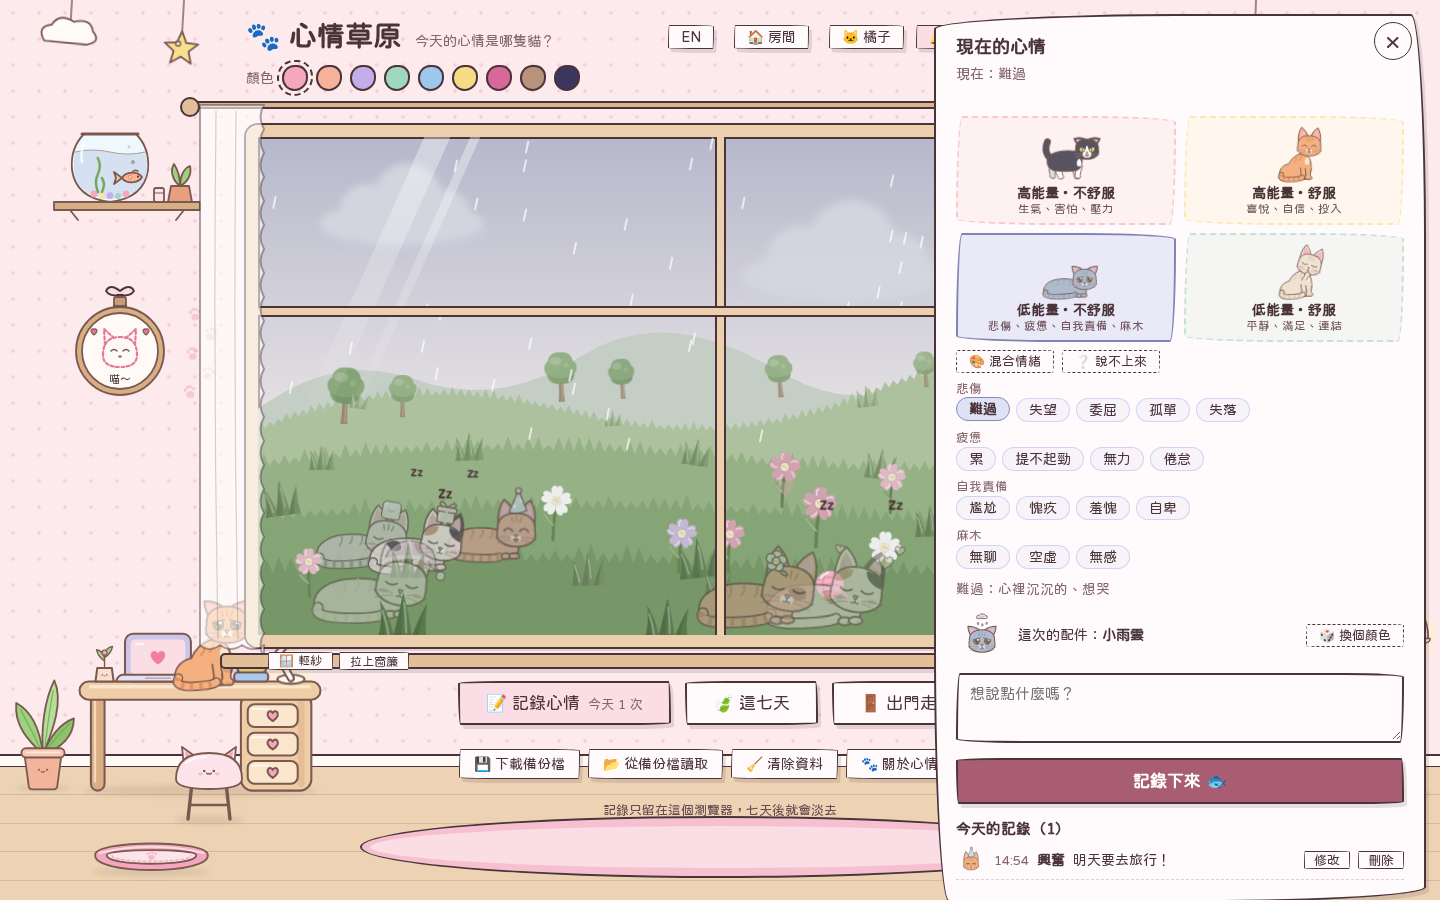
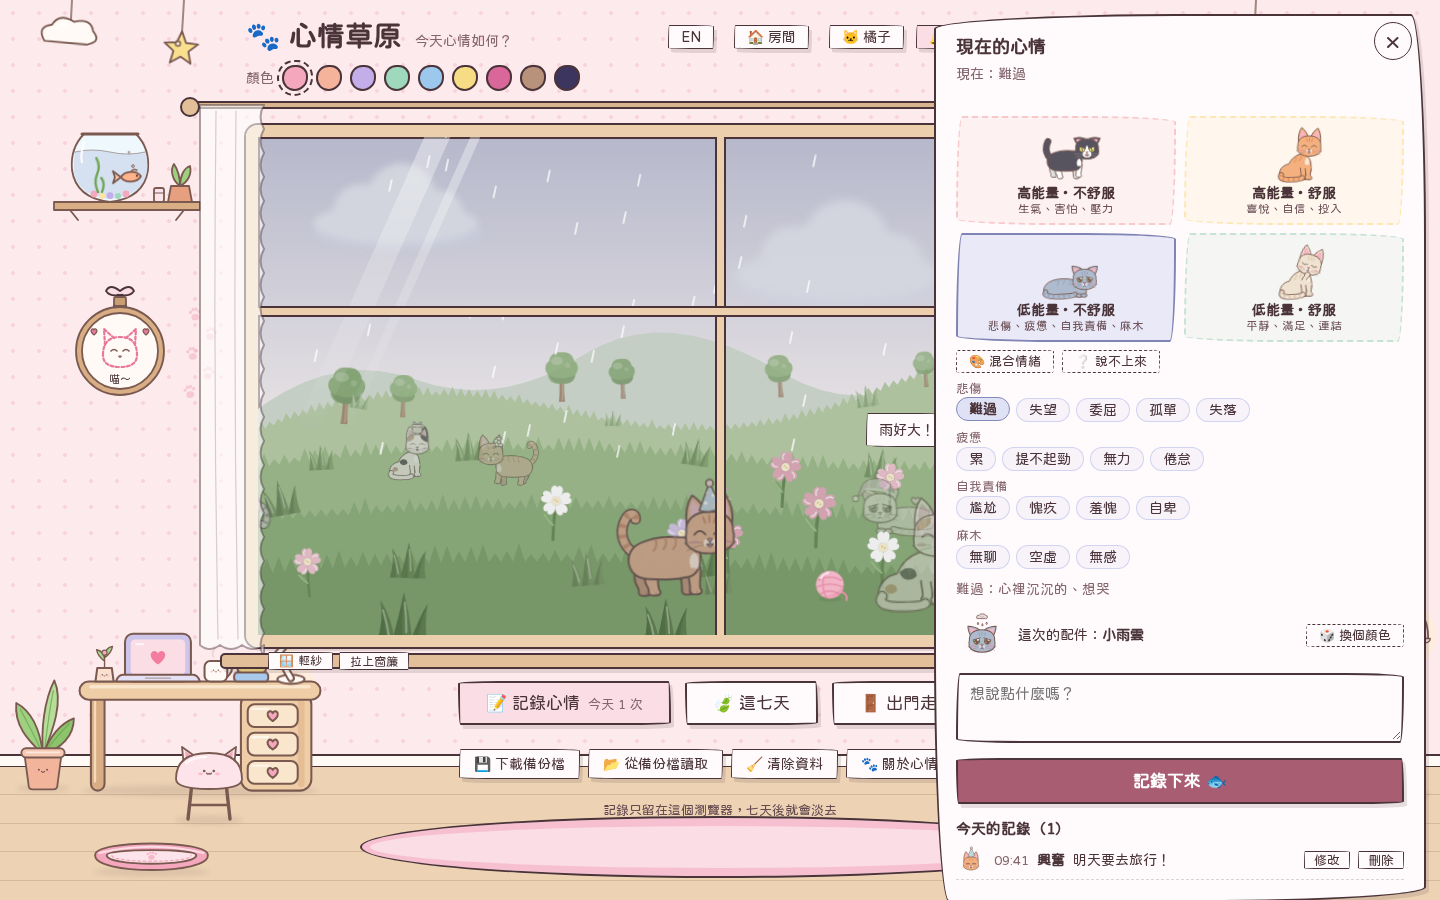
New tagline and Wu Ming-Yi excerpt

diff --git a/index.html b/index.html
@@ -580,6 +580,9 @@
   .about-dlg h3 { font-size: 16px; margin: 14px 0 4px; }
   .about-dlg ul { margin: 0; padding-left: 1.2em; }
   .about-dlg li { margin-bottom: 4px; }
+  .about-quote { margin: 4px 0 16px; padding: 4px 0 4px 16px; border-left: 3px solid var(--accent); color: var(--ink); }
+  .about-quote p { margin: 0 0 2px; }
+  .about-quote cite { display: block; margin-top: 8px; font-style: normal; font-size: 13px; color: var(--muted); }
   .about-help { background: var(--accent-soft); border: 1.5px dashed var(--line); border-radius: var(--wobble2); padding: 10px 14px; font-size: 14px; }
   .clear-dlg { font-size: 15px; line-height: 1.6; }
   .clear-opt { border: 1.5px dashed color-mix(in srgb, var(--ink) 30%, transparent); border-radius: var(--wobble2); padding: 10px 14px; margin: 10px 0; display: flex; flex-wrap: wrap; gap: 8px 12px; align-items: center; }
@@ -774,7 +777,7 @@
 
 <main class="wrap">
   <header>
-    <h1>🐾 心情草原 <small>今天的心情是哪隻貓？</small></h1>
+    <h1>🐾 心情草原 <small>今天心情如何？</small></h1>
     <button class="buddy-btn" id="langBtn" data-noi18n>EN</button>
     <button class="buddy-btn" id="roomBtn">🏠 房間</button>
     <button class="buddy-btn" id="buddyBtn" title="我的寵物">🐱 寵物</button>
@@ -887,14 +890,16 @@
 
 <dialog class="card day-dlg about-dlg" id="aboutDlg" aria-labelledby="aboutTitle">
   <div class="dlg-head"><h2 id="aboutTitle">關於心情草原</h2><button class="dlg-x" data-close-about aria-label="關閉">×</button></div>
-  <p>每天花幾秒鐘，跟貓咪說說現在的感覺。</p>
-  <ul>
-    <li>說出來，情緒會緩和一點</li>
-    <li>分得越細，越能好好面對</li>
-    <li>情緒會隨著時間變淡，記錄也只留七天</li>
-  </ul>
+  <blockquote class="about-quote">
+    <p>「當別人問，今天海上天氣好嗎？妳聽到了，妳聽到，都要回答很晴朗。」</p>
+    <p>「即使下這麼大的雨也要這樣回答嗎？」</p>
+    <p>「是。」</p>
+    <p>「即使不想回答也要這樣回答嗎？」</p>
+    <p>「是。」</p>
+    <cite>——吳明益《複眼人》</cite>
+  </blockquote>
   <p class="about-help">心情草原是陪你練習的小工具，不能取代專業的協助。如果最近常常覺得撐不住，或是有傷害自己的念頭，請找信任的人聊聊，或撥打<br><b>安心專線 1925</b>（24 小時，免付費）、<b>生命線 1995</b>、<b>張老師 1980</b>。</p>
-  <p class="dlg-empty">研究出處和更多說明，請看 <a href="https://github.com/ruby510054/meow#為什麼做這個" target="_blank" rel="noopener">GitHub 上的介紹</a>。<br>喵叫聲錄音來自 Wikimedia Commons：Tsester、freemaster2（CC0）、PantheraLeo1359531（<a href="https://creativecommons.org/licenses/by/4.0/" target="_blank" rel="noopener">CC BY 4.0</a>），已剪輯並調高音調</p>
+  <p class="dlg-empty">更多說明，請看 <a href="https://github.com/ruby510054/meow" target="_blank" rel="noopener">GitHub 上的介紹</a>。<br>喵叫聲錄音來自 Wikimedia Commons：Tsester、freemaster2（CC0）、PantheraLeo1359531（<a href="https://creativecommons.org/licenses/by/4.0/" target="_blank" rel="noopener">CC BY 4.0</a>），已剪輯並調高音調</p>
 </dialog>
 
 <dialog class="card day-dlg clear-dlg" id="clearDlg" aria-labelledby="clearTitle">
@@ -1122,7 +1127,7 @@ const MEOW_CLIPS = [
 // 情緒詞的英文直接用 mood.json 裡的 label.en；你自己寫的心情內容不會被翻譯。
 const EN = {
   // 標題、按鈕
-  "心情草原 Mood Meadow": "Mood Meadow", "心情草原": "Mood Meadow", "今天的心情是哪隻貓？": "Which cat is your mood today?",
+  "心情草原 Mood Meadow": "Mood Meadow", "心情草原": "Mood Meadow", "今天心情如何？": "How are you today?",
   "房間": "Room", "我的寵物": "My pet", "寵物": "Pet", "音效開": "Sound on", "音效關": "Sound off", "音效音量": "Sound volume",
   "音樂開": "Music on", "音樂關": "Music off", "音量": "Volume", "顏色": "Color",
   "櫻花粉": "Sakura", "蜜桃": "Peach", "薰衣草": "Lavender", "薄荷": "Mint", "天空": "Sky", "檸檬": "Lemon", "莓果": "Berry", "可可": "Cocoa",
@@ -1151,7 +1156,7 @@ const EN = {
   "情緒會隨著時間變淡": "Feelings fade with time", "：所以記錄只留七天，草原上的貓咪身影也會慢慢變淡": ": so entries only stay for 7 days, and the cats in the meadow slowly fade too",
   "心情草原是陪你練習的小工具，不能取代專業的協助。如果最近常常覺得撐不住，或是有傷害自己的念頭，請找信任的人聊聊，或撥打": "Mood Meadow is a small practice tool and can't replace professional help. If you often feel you can't cope, or have thoughts of hurting yourself, please talk to someone you trust, or call ",
   "安心專線 1925": "Taiwan Mental Health Hotline 1925", "（24 小時，免付費）、": " (24 hours, free), ", "GitHub 上的介紹": "the GitHub page", "生命線 1995": "Lifeline 1995", "張老師 1980": "Teacher Chang 1980",
-  "研究出處和更多說明，請看": "For sources and more details, see ",
+  "更多說明，請看": "For more details, see ",
   // 清除
   "只清除示範資料": "Only clear the demo entries", "你自己記的心情會留著": "Your own entries will stay",
   "清除之後就找不回來了，建議先下載一份備份檔。": "This can't be undone. Download a backup first.", "先下載備份檔": "Download a backup first",
@@ -1301,7 +1306,11 @@ const EN = {
   "我們回來了，休息一下吧": "We're back, let's rest a bit", "外面的朋友都好可愛喔": "The friends outside are so cute",
   "喵～今天過得怎麼樣？選一隻貓告訴我吧！": "Meow~ How was your day? Pick a cat and tell me!",
   "（今天）": " (today)",
-  "語言": "Language", "這七天": "These 7 days", "選一個最接近的感覺": "Pick the closest feeling", "想說點什麼嗎？": "Anything to say?",
+  "語言": "Language",
+  "「當別人問，今天海上天氣好嗎？妳聽到了，妳聽到，都要回答很晴朗。」": "\"When someone asks you, 'How's the weather out at sea today?' — whenever you hear it, you must answer: 'Clear and sunny.'\"",
+  "「即使下這麼大的雨也要這樣回答嗎？」": "\"Even when it's raining this hard?\"", "「是。」": "\"Yes.\"",
+  "「即使不想回答也要這樣回答嗎？」": "\"Even when I don't want to answer?\"",
+  "——吳明益《複眼人》": "— Wu Ming-Yi, The Man with the Compound Eyes (our translation)", "這七天": "These 7 days", "選一個最接近的感覺": "Pick the closest feeling", "想說點什麼嗎？": "Anything to say?",
   "發生了什麼事？": "What happened?", "可以選好幾個": "Pick as many as you like", "點一個最接近的詞": "Click the closest word", "先選一個區塊": "Pick an area first",
   "記好了！看看草原～": "Got it! Look at the meadow~", "記錄只留在這個瀏覽器，七天後就會淡去": "Entries stay only in this browser and fade after 7 days",
   "每天花幾秒鐘，跟貓咪說說現在的感覺。": "Take a few seconds each day to tell a cat how you feel.", "說出來，情緒會緩和一點": "Naming a feeling softens it",

diff --git a/README.en.md b/README.en.md
@@ -14,33 +14,34 @@ No install, no sign-up — just open the page. Everything stays in your own brow
 
 > The screenshots show the Chinese interface; everything is also available in English.
 
-## Why
+## Excerpt
 
-Mood Meadow tries to make noticing and naming your feelings a little easier and a little cuter: take a few seconds each day to tell a cat how you feel.
+> 「當別人問，今天海上天氣好嗎？妳聽到了，妳聽到，都要回答很晴朗。」
+> 「即使下這麼大的雨也要這樣回答嗎？」
+> 「是。」
+> 「即使不想回答也要這樣回答嗎？」
+> 「是。」
+>
+> — Wu Ming-Yi, *The Man with the Compound Eyes* (《複眼人》)
 
-Practicing recognizing and writing down feelings has some research-backed benefits:
-
-- **Naming a feeling softens it**: putting feelings into words is itself a way of regulating them (Lieberman et al., 2007)
-- **Finer words, better coping**: people who can tell subtle feelings apart find it easier to cope with unpleasant emotions (Kashdan, Barrett & McKnight, 2015). Mood Meadow has 47 feeling words to help you tell your feelings apart
-- **Writing it down helps**: writing about emotional experiences has positive effects on physical and mental health (Pennebaker, 1997)
-
-The four areas sort feelings by how pleasant they are (valence) and how much energy they carry (arousal), based on the circumplex model of affect (Russell, 1980).
+> "When someone asks you, 'How's the weather out at sea today?' — whenever you hear it, you must answer: 'Clear and sunny.'"
+> "Even when it's raining this hard?"
+> "Yes."
+> "Even when I don't want to answer?"
+> "Yes."
+>
+> (our translation)
 
 > Mood Meadow is a small practice tool and can't replace professional help. If you often feel you can't cope, or have thoughts of hurting yourself, please talk to someone you trust or contact a local helpline. In Taiwan:
 > - **Taiwan Mental Health Hotline 1925** (24 hours, free)
 > - **Lifeline 1995**
 > - **Teacher Chang 1980**
 
-### References
-- Lieberman, M. D., Eisenberger, N. I., Crockett, M. J., Tom, S. M., Pfeifer, J. H., & Way, B. M. (2007). Putting feelings into words: Affect labeling disrupts amygdala activity in response to affective stimuli. *Psychological Science, 18*(5), 421–428.
-- Kashdan, T. B., Barrett, L. F., & McKnight, P. E. (2015). Unpacking emotion differentiation: Transforming unpleasant experience by perceiving distinctions in negativity. *Current Directions in Psychological Science, 24*(1), 10–16.
-- Pennebaker, J. W. (1997). Writing about emotional experiences as a therapeutic process. *Psychological Science, 8*(3), 162–166.
-- Russell, J. A. (1980). A circumplex model of affect. *Journal of Personality and Social Psychology, 39*(6), 1161–1178.
-
 ## Features
 
 ### Log your mood
 - Pick one of four areas (energy × pleasantness), then the closest of 47 feeling words — each comes with a short description
+- The four areas sort feelings by pleasantness (valence) and energy (arousal), based on the circumplex model of affect (Russell, 1980)
 - Choose "Mixed" to pick several words; if you're "Not sure", you can log how your body feels and what it's about instead
 - Log as many times a day as you like, and edit, delete, or add entries for any of the last 7 days
 
@@ -146,6 +147,19 @@ So the page works as a single file, `index.html` contains an identical copy (ins
 ├── LICENSE        # MIT license
 └── docs/          # screenshots for the README
 ```
+
+## References
+
+Research that informed the design:
+
+- Putting feelings into words is itself a way of regulating them (Lieberman et al., 2007)
+- People who can tell subtle feelings apart cope better with unpleasant emotions (Kashdan, Barrett & McKnight, 2015)
+- Writing about emotional experiences has positive effects on physical and mental health (Pennebaker, 1997)
+
+- Lieberman, M. D., Eisenberger, N. I., Crockett, M. J., Tom, S. M., Pfeifer, J. H., & Way, B. M. (2007). Putting feelings into words: Affect labeling disrupts amygdala activity in response to affective stimuli. *Psychological Science, 18*(5), 421–428.
+- Kashdan, T. B., Barrett, L. F., & McKnight, P. E. (2015). Unpacking emotion differentiation: Transforming unpleasant experience by perceiving distinctions in negativity. *Current Directions in Psychological Science, 24*(1), 10–16.
+- Pennebaker, J. W. (1997). Writing about emotional experiences as a therapeutic process. *Psychological Science, 8*(3), 162–166.
+- Russell, J. A. (1980). A circumplex model of affect. *Journal of Personality and Social Psychology, 39*(6), 1161–1178.
 
 ## Credits
 

diff --git a/README.md b/README.md
@@ -12,33 +12,26 @@
 
 ![心情草原主畫面：窗外的草原、房間和寵物](docs/main.png)
 
-## 為什麼做這個
+## 節錄
 
-心情草原想讓「覺察和說出自己的情緒」這件事變得輕鬆一點、可愛一點：每天花幾秒鐘，跟一隻貓說說現在的感覺。
-
-練習辨認和記錄情緒，有一些研究上的好處：
-
-- **說出情緒的名字，情緒會緩和一點**：研究發現，把感受用文字說出來，本身就是一種調節情緒的方式（Lieberman 等人，2007）
-- **分得越細，越能好好面對**：能分辨細微情緒差別的人，面對不舒服的情緒時，比較能找到合適的方法應對（Kashdan、Barrett 與 McKnight，2015）。心情草原準備了 47 個情緒詞，希望讓人比較容易分辨自己的情緒
-- **寫下來，對身心都有幫助**：把情緒經驗寫下來，對身心健康有正面的影響（Pennebaker，1997）
-
-心情草原的四個區塊，是用「舒不舒服（愉悅度）」和「能量高低」來分類情緒，這個做法來自心理學的情緒環狀模型（Russell，1980）。
+> 「當別人問，今天海上天氣好嗎？妳聽到了，妳聽到，都要回答很晴朗。」
+> 「即使下這麼大的雨也要這樣回答嗎？」
+> 「是。」
+> 「即使不想回答也要這樣回答嗎？」
+> 「是。」
+>
+> ——吳明益《複眼人》
 
 > 心情草原是陪你練習覺察情緒的小工具，不能取代專業的協助。如果你最近常常覺得撐不住，或是有傷害自己的念頭，請找信任的人聊聊，或撥打專線：
 > - **安心專線 1925**（24 小時，免付費）
 > - **生命線 1995**
 > - **張老師 1980**
 
-### 參考資料
-- Lieberman, M. D., Eisenberger, N. I., Crockett, M. J., Tom, S. M., Pfeifer, J. H., & Way, B. M. (2007). Putting feelings into words: Affect labeling disrupts amygdala activity in response to affective stimuli. *Psychological Science, 18*(5), 421–428.
-- Kashdan, T. B., Barrett, L. F., & McKnight, P. E. (2015). Unpacking emotion differentiation: Transforming unpleasant experience by perceiving distinctions in negativity. *Current Directions in Psychological Science, 24*(1), 10–16.
-- Pennebaker, J. W. (1997). Writing about emotional experiences as a therapeutic process. *Psychological Science, 8*(3), 162–166.
-- Russell, J. A. (1980). A circumplex model of affect. *Journal of Personality and Social Psychology, 39*(6), 1161–1178.
-
 ## 有什麼
 
 ### 記錄心情
 - 先選「能量高低 × 舒不舒服」四個區塊之一，再從 47 個情緒詞裡挑一個最接近的，每個詞都有一句說明
+- 四個區塊用「舒不舒服（愉悅度）」和「能量高低」來分類情緒，這個做法來自心理學的情緒環狀模型（Russell，1980）
 - 可以複選「混合情緒」；說不上來的時候，也可以改記身體的感覺和跟什麼有關
 - 一天可以記很多次，之後也能修改、刪除，或補記這七天內的心情
 
@@ -144,6 +137,19 @@ special_options：mixed（混合情緒）、unsure（說不上來）
 ├── LICENSE        # MIT 授權
 └── docs/          # README 用的截圖
 ```
+
+## 參考資料
+
+設計時參考的研究：
+
+- 把感受用文字說出來，本身就是一種調節情緒的方式（Lieberman 等人，2007）
+- 能分辨細微情緒差別的人，面對不舒服的情緒時，比較能找到合適的方法應對（Kashdan、Barrett 與 McKnight，2015）
+- 把情緒經驗寫下來，對身心健康有正面的影響（Pennebaker，1997）
+
+- Lieberman, M. D., Eisenberger, N. I., Crockett, M. J., Tom, S. M., Pfeifer, J. H., & Way, B. M. (2007). Putting feelings into words: Affect labeling disrupts amygdala activity in response to affective stimuli. *Psychological Science, 18*(5), 421–428.
+- Kashdan, T. B., Barrett, L. F., & McKnight, P. E. (2015). Unpacking emotion differentiation: Transforming unpleasant experience by perceiving distinctions in negativity. *Current Directions in Psychological Science, 24*(1), 10–16.
+- Pennebaker, J. W. (1997). Writing about emotional experiences as a therapeutic process. *Psychological Science, 8*(3), 162–166.
+- Russell, J. A. (1980). A circumplex model of affect. *Journal of Personality and Social Psychology, 39*(6), 1161–1178.
 
 ## 素材來源
 
